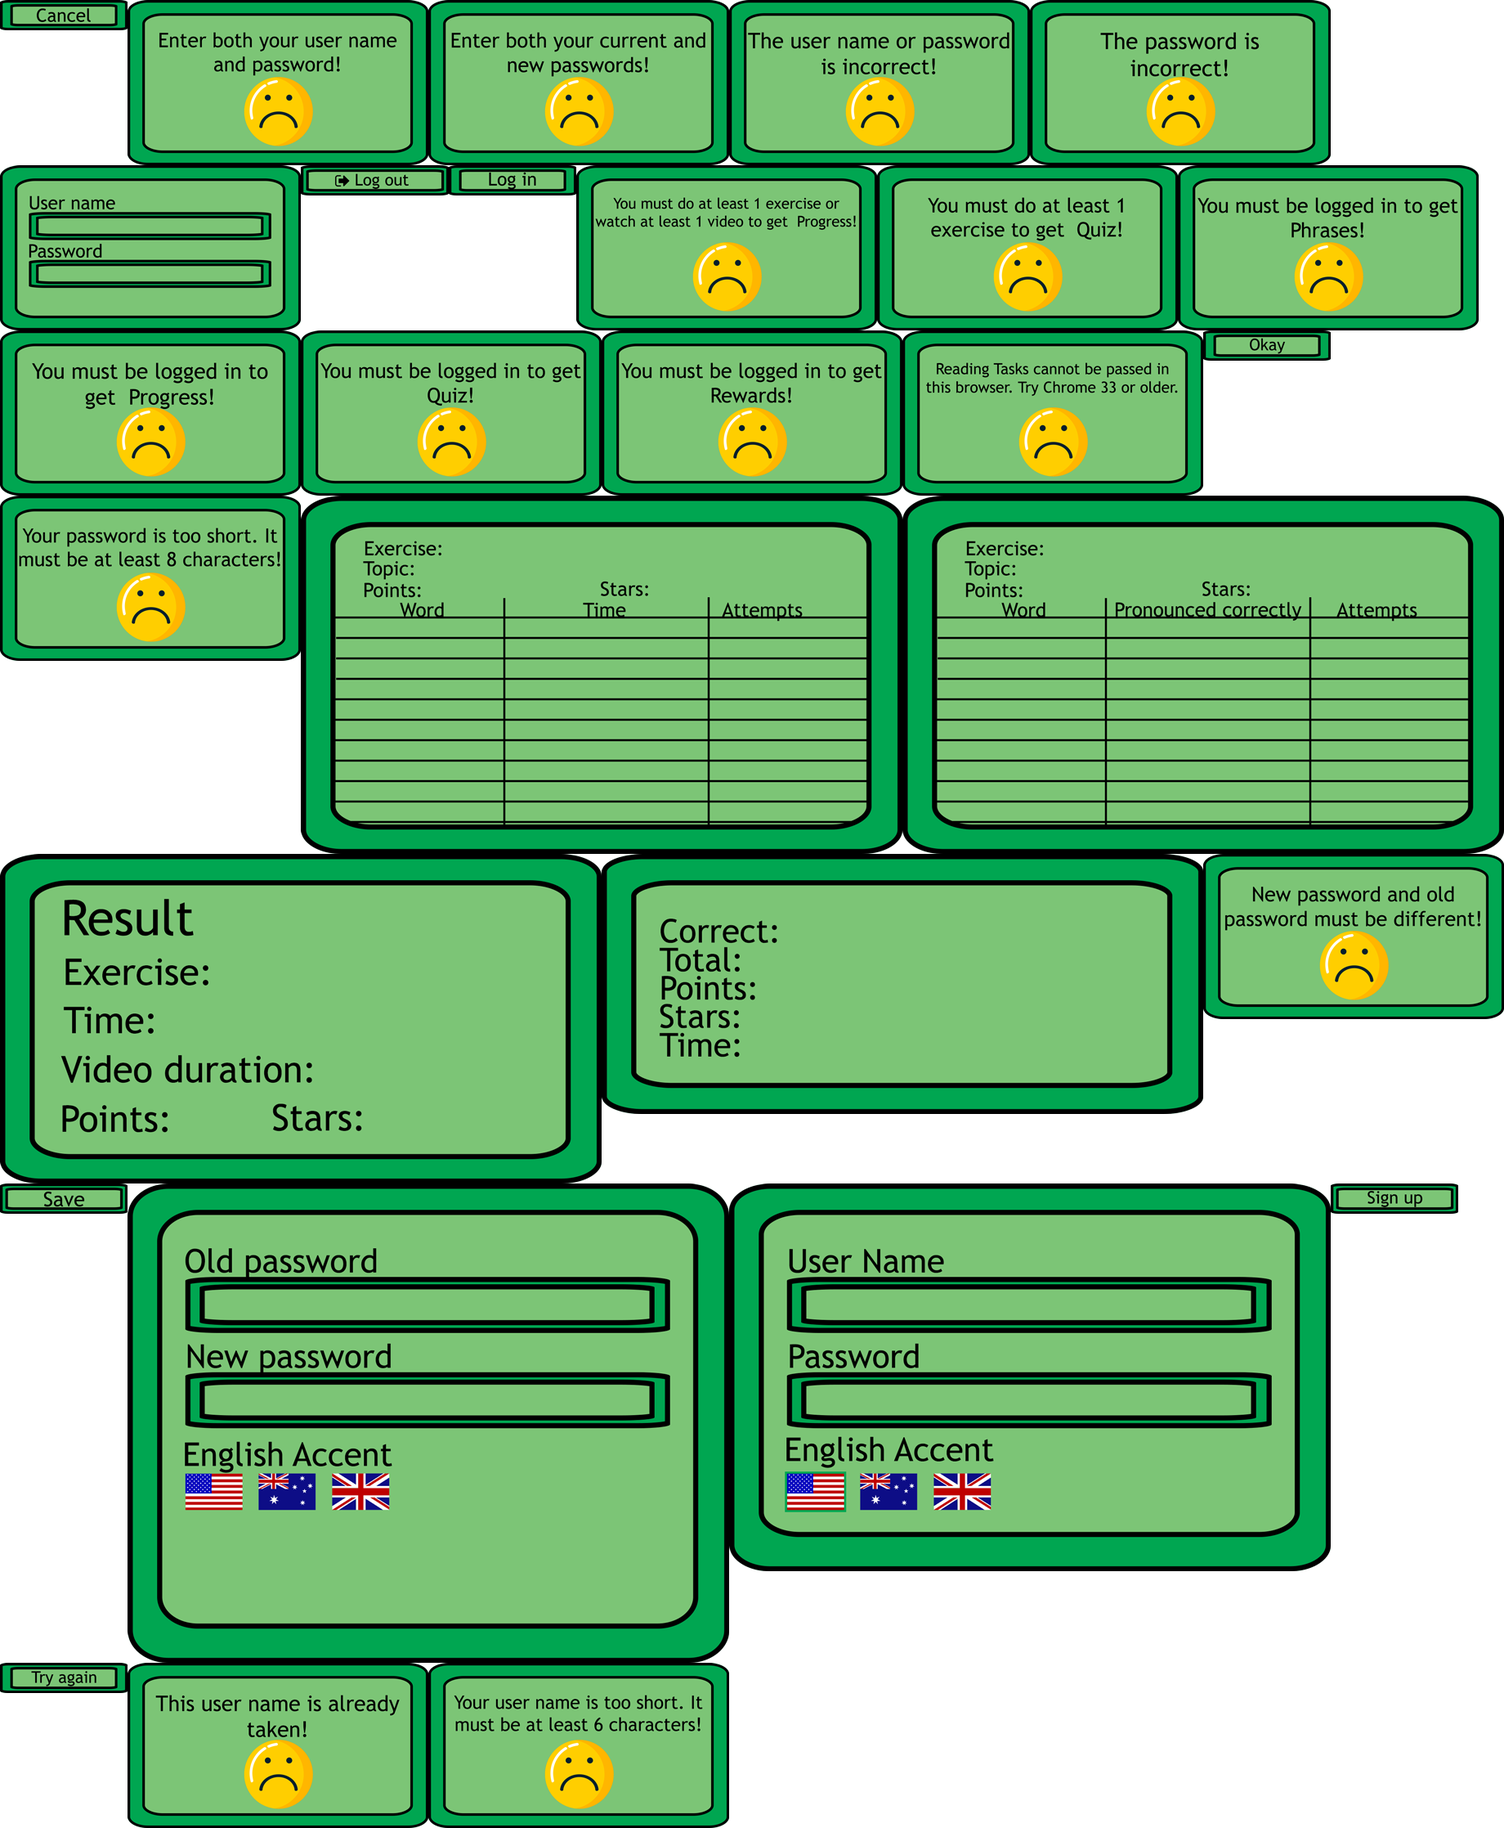
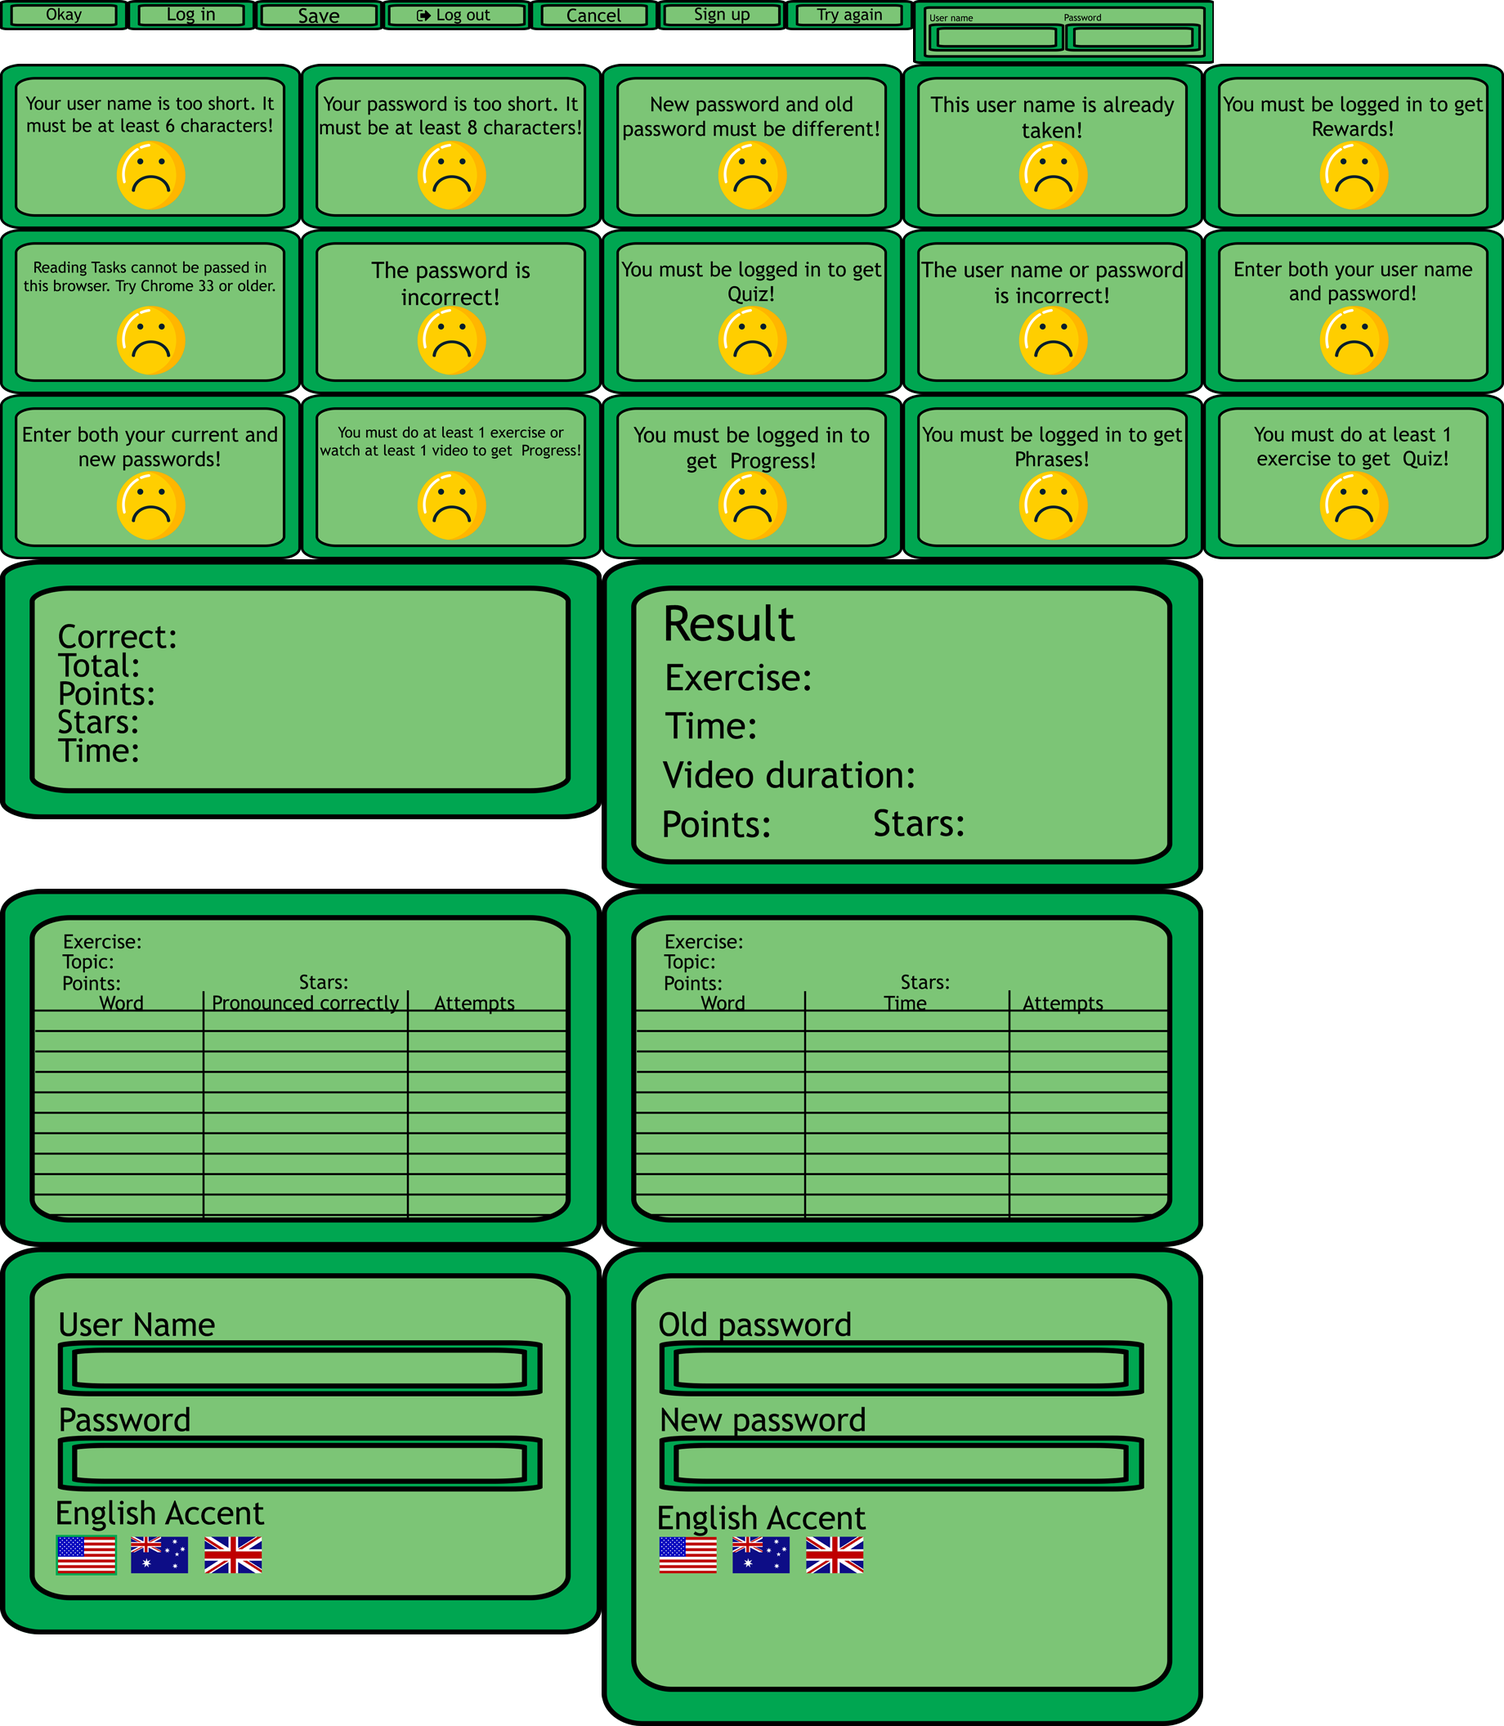
trying to fix input

diff --git a/client/bundle.js b/client/bundle.js
@@ -3273,42 +3273,72 @@ module.exports = {
 					drawHeader();
 					if(document.getElementById("MenuCanvas"))
 						$("#MenuCanvas").remove();
-					X_ = (Screen.width / Math.min(Screen.k_width, Screen.k_height) - (MenuItem.size) / 202 * 368)/2
-					Y_ = MenuItem.starts + (MenuItem.ends - MenuItem.starts - MenuItem.size) / 2;
-					size_ = 2*(Y_ - MenuItem.starts) + MenuItem.size;
-					Display.setForm("log_in_form.png", X_, Y_, (MenuItem.size) / 202 * 368, MenuItem.size);
+					var frame = Properties.Forms["log_in_form.png"];
+					console.log(frame);
+					var Form_frame = {};
+				
+					Form_frame.h = Screen.height / Math.min(Screen.k_width, Screen.k_height) - MenuItem.starts - 2 * 40 - 100;
+					Form_frame.w = Form_frame.h * frame.w / frame.h;
+					
+					if(Form_frame.w > Screen.width / Math.min(Screen.k_width, Screen.k_height)- 2 * 20 - 100) {
+						Form_frame.w = Screen.width / Math.min(Screen.k_width, Screen.k_height) - 2 * 20 - 100;
+						Form_frame.h = Form_frame.w * frame.h / frame.w;
+					}
+					Form_frame.x = (Screen.width / Math.min(Screen.k_width, Screen.k_height) - Form_frame.w) / 2;
+					Form_frame.y = MenuItem.starts + 10;
+					Display.setForm("log_in_form.png", Form_frame.x, Form_frame.y, Form_frame.w, Form_frame.h);
+					
 					drawLogInForm();
-					Display.setButton("login_btn.png", X_ + 47, Y_ + MenuItem.size - MenuItem.size * 37 / 202 / 2 - 40, (MenuItem.size) / 202 * 156, MenuItem.size * 37 / 202);
-					Form.Draw("login_btn.png");
-					Display.setButton("cancel_btn.png", X_ + 49 + (MenuItem.size) / 202 * 156 + 35, Y_ + MenuItem.size - MenuItem.size * 37 / 202 / 2 - 40, (MenuItem.size) / 202 * 156, MenuItem.size * 37 / 202);
-					Form.Draw("cancel_btn.png");
+					
+					//fillRect(0, Display.getForm("log_in_form.png").y + 35 * Display.getForm("log_in_form.png").h / frame.h, 10000, 10);
+					//fillRect(0, Display.getForm("log_in_form.png").y + 55 * Display.getForm("log_in_form.png").h / frame.h, 10000, 10);
+					//fillRect(Display.getForm("log_in_form.png").x + 32 * Display.getForm("log_in_form.png").w / frame.w, 0 , 10, 10000);
+					//fillRect(Display.getForm("log_in_form.png").x + 200 * Display.getForm("log_in_form.png").w / frame.w, 0 , 10, 10000);
+					//fillRect(Display.getForm("log_in_form.png").x + 170 * Display.getForm("log_in_form.png").w / frame.w, 0 , 10, 10000);
+					//fillRect(Display.getForm("log_in_form.png").x + Display.getForm("log_in_form.png").w - 30 * Display.getForm("log_in_form.png").w / frame.w, 0 , 10, 10000);
+					
 					ctx.fillStyle='#000000';
 					var div = document.createElement('inputDiv');
 					div.innerHTML = "<input id = 'UserName' name = 'UserName'/><input type = 'password' id = 'Password' name = 'UserName' />";
 					document.getElementById("mainDiv").appendChild(div);
-					document.getElementById("UserName").style.top = (Y_ + 57 / 202 * MenuItem.size) * Math.min(Screen.k_width, Screen.k_height);
-					document.getElementById("UserName").style.left = (X_ + 35 / 368 * (MenuItem.size) / 202 * 368) * Math.min(Screen.k_width, Screen.k_height);
-					document.getElementById("UserName").style.paddingLeft = (20 / 368 * size_) * Math.min(Screen.k_width, Screen.k_height);
-					document.getElementById("UserName").style.paddingRight = (20 / 368 * size_) * Math.min(Screen.k_width, Screen.k_height);
-					document.getElementById("UserName").style.width = 297 / 368 * (MenuItem.size) / 202 * 368*Math.min(Screen.k_width, Screen.k_height);
-					document.getElementById("UserName").style.height = 35 / 202 * MenuItem.size * Math.min(Screen.k_width, Screen.k_height);
+					document.getElementById("UserName").style.top = (Display.getForm("log_in_form.png").y + 35 * Display.getForm("log_in_form.png").h / frame.h) * Math.min(Screen.k_width, Screen.k_height);
+					document.getElementById("UserName").style.left = (Display.getForm("log_in_form.png").x + 32 * Display.getForm("log_in_form.png").w / frame.w) * Math.min(Screen.k_width, Screen.k_height);
+					document.getElementById("UserName").style.paddingLeft = (10 * Display.getForm("log_in_form.png").w / frame.w) * Math.min(Screen.k_width, Screen.k_height);
+					document.getElementById("UserName").style.paddingRight = (10 * Display.getForm("log_in_form.png").w / frame.w) * Math.min(Screen.k_width, Screen.k_height);
+					document.getElementById("UserName").style.width = (145 * Display.getForm("log_in_form.png").w / frame.w)*Math.min(Screen.k_width, Screen.k_height);
+					document.getElementById("UserName").style.height = (20 * Display.getForm("log_in_form.png").h / frame.h) * Math.min(Screen.k_width, Screen.k_height);
 					document.getElementById("UserName").style.border = "2px solid";
 					document.getElementById('UserName').style.position = "absolute";
 					document.getElementById('UserName').autofocus = false;
 					document.getElementById('UserName').style.backgroundColor = "transparent";
-					Display.setButton("UserName", (X_ + 35 / 368 * (MenuItem.size) / 202 * 368), (Y_ + 57 / 202 * MenuItem.size), 297/ 368 * size_, 35 / 202 * size_ );
-					document.getElementById("Password").style.top = (Y_ + 115 / 202 * MenuItem.size) * Math.min(Screen.k_width, Screen.k_height);
-					document.getElementById("Password").style.left = (X_ + 35 / 368 * (MenuItem.size) / 202 * 368) * Math.min(Screen.k_width, Screen.k_height);
-					document.getElementById("Password").style.paddingLeft = (20 / 368 * size_) * Math.min(Screen.k_width, Screen.k_height);
-					document.getElementById("Password").style.paddingRight = (20 / 368 * size_) * Math.min(Screen.k_width, Screen.k_height);
-					document.getElementById("Password").style.width = 297 / 368 * (MenuItem.size) / 202 * 368 *Math.min(Screen.k_width, Screen.k_height);
-					document.getElementById("Password").style.height = 35 / 202 * MenuItem.size * Math.min(Screen.k_width, Screen.k_height);
+					Display.setButton("UserName", Display.getForm("log_in_form.png").x + 32 * Display.getForm("log_in_form.png").w / frame.w, (Display.getForm("log_in_form.png").y + 35 * Display.getForm("log_in_form.png").h / frame.h), 145 * Display.getForm("log_in_form.png").w / frame.w, 20 * Display.getForm("log_in_form.png").h / frame.h);
+					document.getElementById("Password").style.top = (Display.getForm("log_in_form.png").y + 35 * Display.getForm("log_in_form.png").h / frame.h) * Math.min(Screen.k_width, Screen.k_height);
+					document.getElementById("Password").style.left = (Display.getForm("log_in_form.png").x + 198 * Display.getForm("log_in_form.png").w / frame.w) * Math.min(Screen.k_width, Screen.k_height);
+					document.getElementById("Password").style.paddingLeft = (10 * Display.getForm("log_in_form.png").w / frame.w) * Math.min(Screen.k_width, Screen.k_height);
+					document.getElementById("Password").style.paddingRight = (10 * Display.getForm("log_in_form.png").w / frame.w) * Math.min(Screen.k_width, Screen.k_height);
+					document.getElementById("Password").style.width = 145 * Display.getForm("log_in_form.png").w / frame.w * Math.min(Screen.k_width, Screen.k_height);
+					document.getElementById("Password").style.height = 20 * Display.getForm("log_in_form.png").h / frame.h * Math.min(Screen.k_width, Screen.k_height);
 					document.getElementById("Password").style.border = "2px solid";
 					document.getElementById('Password').style.position = "absolute";
 					document.getElementById('Password').style.backgroundColor = "transparent";
 					document.getElementById('Password').autofocus = false;
-					Display.setButton("Password", (X_ + 35 / 368 * (MenuItem.size) / 202 * 368), (Y_ + 115 / 202 * MenuItem.size), 297/ 368 * size_, 35 / 202 * size_ );
-					
+					Display.setButton("Password", Display.getForm("log_in_form.png").x + 198 * Display.getForm("log_in_form.png").w / frame.w, Display.getForm("log_in_form.png").y + 35 * Display.getForm("log_in_form.png").h / frame.h, 145 * Display.getForm("log_in_form.png").w / frame.w, 20 * Display.getForm("log_in_form.png").h / frame.h);
+
+					frame = Properties.Forms["login_btn.png"];
+					var btn = {};
+					btn.w = (Display.getForm("log_in_form.png").x + Display.getForm("log_in_form.png").w - 30 - 10) / 4;
+					btn.x = (Display.getForm("log_in_form.png").x + Display.getForm("log_in_form.png").w / 2) / 2 - btn.w / 2;
+					btn.h = btn.w * Properties.Forms["log_in_form.png"].h / Properties.Forms["log_in_form.png"].w;
+					btn.y = Display.getForm("log_in_form.png").y + Display.getForm("log_in_form.png").h - 30 - btn.h / 2;
+					Display.setButton("login_btn.png", btn.x, btn.y, btn.w, btn.h);
+					Form.Draw("login_btn.png");
+					btn.x = Display.getForm("log_in_form.png").x + Display.getForm("log_in_form.png").w / 2 + 2 * 10;
+					btn.w = (Display.getForm("log_in_form.png").w - 2 * 30 - 10) / 4;
+					btn.h = btn.w * Properties.Forms["cancel_btn.png"].h / Properties.Forms["cancel_btn.png"].w;
+					btn.y = Display.getForm("log_in_form.png").y + Display.getForm("log_in_form.png").h - 30 - btn.h / 2;
+					Display.setButton("cancel_btn.png", btn.x, btn.y, btn.w, btn.h);
+					Form.Draw("cancel_btn.png");
+						
 					if(Profile.UserName)
 						document.getElementById('UserName').value = Profile.UserName;
 					if(Profile.Password)

diff --git a/client/index.js b/client/index.js
@@ -3031,42 +3031,72 @@
 					drawHeader();
 					if(document.getElementById("MenuCanvas"))
 						$("#MenuCanvas").remove();
-					X_ = (Screen.width / Math.min(Screen.k_width, Screen.k_height) - (MenuItem.size) / 202 * 368)/2
-					Y_ = MenuItem.starts + (MenuItem.ends - MenuItem.starts - MenuItem.size) / 2;
-					size_ = 2*(Y_ - MenuItem.starts) + MenuItem.size;
-					Display.setForm("log_in_form.png", X_, Y_, (MenuItem.size) / 202 * 368, MenuItem.size);
+					var frame = Properties.Forms["log_in_form.png"];
+					console.log(frame);
+					var Form_frame = {};
+				
+					Form_frame.h = Screen.height / Math.min(Screen.k_width, Screen.k_height) - MenuItem.starts - 2 * 40 - 100;
+					Form_frame.w = Form_frame.h * frame.w / frame.h;
+					
+					if(Form_frame.w > Screen.width / Math.min(Screen.k_width, Screen.k_height)- 2 * 20 - 100) {
+						Form_frame.w = Screen.width / Math.min(Screen.k_width, Screen.k_height) - 2 * 20 - 100;
+						Form_frame.h = Form_frame.w * frame.h / frame.w;
+					}
+					Form_frame.x = (Screen.width / Math.min(Screen.k_width, Screen.k_height) - Form_frame.w) / 2;
+					Form_frame.y = MenuItem.starts + 10;
+					Display.setForm("log_in_form.png", Form_frame.x, Form_frame.y, Form_frame.w, Form_frame.h);
+					
 					drawLogInForm();
-					Display.setButton("login_btn.png", X_ + 47, Y_ + MenuItem.size - MenuItem.size * 37 / 202 / 2 - 40, (MenuItem.size) / 202 * 156, MenuItem.size * 37 / 202);
-					Form.Draw("login_btn.png");
-					Display.setButton("cancel_btn.png", X_ + 49 + (MenuItem.size) / 202 * 156 + 35, Y_ + MenuItem.size - MenuItem.size * 37 / 202 / 2 - 40, (MenuItem.size) / 202 * 156, MenuItem.size * 37 / 202);
-					Form.Draw("cancel_btn.png");
+					
+					//fillRect(0, Display.getForm("log_in_form.png").y + 35 * Display.getForm("log_in_form.png").h / frame.h, 10000, 10);
+					//fillRect(0, Display.getForm("log_in_form.png").y + 55 * Display.getForm("log_in_form.png").h / frame.h, 10000, 10);
+					//fillRect(Display.getForm("log_in_form.png").x + 32 * Display.getForm("log_in_form.png").w / frame.w, 0 , 10, 10000);
+					//fillRect(Display.getForm("log_in_form.png").x + 200 * Display.getForm("log_in_form.png").w / frame.w, 0 , 10, 10000);
+					//fillRect(Display.getForm("log_in_form.png").x + 170 * Display.getForm("log_in_form.png").w / frame.w, 0 , 10, 10000);
+					//fillRect(Display.getForm("log_in_form.png").x + Display.getForm("log_in_form.png").w - 30 * Display.getForm("log_in_form.png").w / frame.w, 0 , 10, 10000);
+					
 					ctx.fillStyle='#000000';
 					var div = document.createElement('inputDiv');
 					div.innerHTML = "<input id = 'UserName' name = 'UserName'/><input type = 'password' id = 'Password' name = 'UserName' />";
 					document.getElementById("mainDiv").appendChild(div);
-					document.getElementById("UserName").style.top = (Y_ + 57 / 202 * MenuItem.size) * Math.min(Screen.k_width, Screen.k_height);
-					document.getElementById("UserName").style.left = (X_ + 35 / 368 * (MenuItem.size) / 202 * 368) * Math.min(Screen.k_width, Screen.k_height);
-					document.getElementById("UserName").style.paddingLeft = (20 / 368 * size_) * Math.min(Screen.k_width, Screen.k_height);
-					document.getElementById("UserName").style.paddingRight = (20 / 368 * size_) * Math.min(Screen.k_width, Screen.k_height);
-					document.getElementById("UserName").style.width = 297 / 368 * (MenuItem.size) / 202 * 368*Math.min(Screen.k_width, Screen.k_height);
-					document.getElementById("UserName").style.height = 35 / 202 * MenuItem.size * Math.min(Screen.k_width, Screen.k_height);
+					document.getElementById("UserName").style.top = (Display.getForm("log_in_form.png").y + 35 * Display.getForm("log_in_form.png").h / frame.h) * Math.min(Screen.k_width, Screen.k_height);
+					document.getElementById("UserName").style.left = (Display.getForm("log_in_form.png").x + 32 * Display.getForm("log_in_form.png").w / frame.w) * Math.min(Screen.k_width, Screen.k_height);
+					document.getElementById("UserName").style.paddingLeft = (10 * Display.getForm("log_in_form.png").w / frame.w) * Math.min(Screen.k_width, Screen.k_height);
+					document.getElementById("UserName").style.paddingRight = (10 * Display.getForm("log_in_form.png").w / frame.w) * Math.min(Screen.k_width, Screen.k_height);
+					document.getElementById("UserName").style.width = (145 * Display.getForm("log_in_form.png").w / frame.w)*Math.min(Screen.k_width, Screen.k_height);
+					document.getElementById("UserName").style.height = (20 * Display.getForm("log_in_form.png").h / frame.h) * Math.min(Screen.k_width, Screen.k_height);
 					document.getElementById("UserName").style.border = "2px solid";
 					document.getElementById('UserName').style.position = "absolute";
 					document.getElementById('UserName').autofocus = false;
 					document.getElementById('UserName').style.backgroundColor = "transparent";
-					Display.setButton("UserName", (X_ + 35 / 368 * (MenuItem.size) / 202 * 368), (Y_ + 57 / 202 * MenuItem.size), 297/ 368 * size_, 35 / 202 * size_ );
-					document.getElementById("Password").style.top = (Y_ + 115 / 202 * MenuItem.size) * Math.min(Screen.k_width, Screen.k_height);
-					document.getElementById("Password").style.left = (X_ + 35 / 368 * (MenuItem.size) / 202 * 368) * Math.min(Screen.k_width, Screen.k_height);
-					document.getElementById("Password").style.paddingLeft = (20 / 368 * size_) * Math.min(Screen.k_width, Screen.k_height);
-					document.getElementById("Password").style.paddingRight = (20 / 368 * size_) * Math.min(Screen.k_width, Screen.k_height);
-					document.getElementById("Password").style.width = 297 / 368 * (MenuItem.size) / 202 * 368 *Math.min(Screen.k_width, Screen.k_height);
-					document.getElementById("Password").style.height = 35 / 202 * MenuItem.size * Math.min(Screen.k_width, Screen.k_height);
+					Display.setButton("UserName", Display.getForm("log_in_form.png").x + 32 * Display.getForm("log_in_form.png").w / frame.w, (Display.getForm("log_in_form.png").y + 35 * Display.getForm("log_in_form.png").h / frame.h), 145 * Display.getForm("log_in_form.png").w / frame.w, 20 * Display.getForm("log_in_form.png").h / frame.h);
+					document.getElementById("Password").style.top = (Display.getForm("log_in_form.png").y + 35 * Display.getForm("log_in_form.png").h / frame.h) * Math.min(Screen.k_width, Screen.k_height);
+					document.getElementById("Password").style.left = (Display.getForm("log_in_form.png").x + 198 * Display.getForm("log_in_form.png").w / frame.w) * Math.min(Screen.k_width, Screen.k_height);
+					document.getElementById("Password").style.paddingLeft = (10 * Display.getForm("log_in_form.png").w / frame.w) * Math.min(Screen.k_width, Screen.k_height);
+					document.getElementById("Password").style.paddingRight = (10 * Display.getForm("log_in_form.png").w / frame.w) * Math.min(Screen.k_width, Screen.k_height);
+					document.getElementById("Password").style.width = 145 * Display.getForm("log_in_form.png").w / frame.w * Math.min(Screen.k_width, Screen.k_height);
+					document.getElementById("Password").style.height = 20 * Display.getForm("log_in_form.png").h / frame.h * Math.min(Screen.k_width, Screen.k_height);
 					document.getElementById("Password").style.border = "2px solid";
 					document.getElementById('Password').style.position = "absolute";
 					document.getElementById('Password').style.backgroundColor = "transparent";
 					document.getElementById('Password').autofocus = false;
-					Display.setButton("Password", (X_ + 35 / 368 * (MenuItem.size) / 202 * 368), (Y_ + 115 / 202 * MenuItem.size), 297/ 368 * size_, 35 / 202 * size_ );
-					
+					Display.setButton("Password", Display.getForm("log_in_form.png").x + 198 * Display.getForm("log_in_form.png").w / frame.w, Display.getForm("log_in_form.png").y + 35 * Display.getForm("log_in_form.png").h / frame.h, 145 * Display.getForm("log_in_form.png").w / frame.w, 20 * Display.getForm("log_in_form.png").h / frame.h);
+
+					frame = Properties.Forms["login_btn.png"];
+					var btn = {};
+					btn.w = (Display.getForm("log_in_form.png").x + Display.getForm("log_in_form.png").w - 30 - 10) / 4;
+					btn.x = (Display.getForm("log_in_form.png").x + Display.getForm("log_in_form.png").w / 2) / 2 - btn.w / 2;
+					btn.h = btn.w * Properties.Forms["log_in_form.png"].h / Properties.Forms["log_in_form.png"].w;
+					btn.y = Display.getForm("log_in_form.png").y + Display.getForm("log_in_form.png").h - 30 - btn.h / 2;
+					Display.setButton("login_btn.png", btn.x, btn.y, btn.w, btn.h);
+					Form.Draw("login_btn.png");
+					btn.x = Display.getForm("log_in_form.png").x + Display.getForm("log_in_form.png").w / 2 + 2 * 10;
+					btn.w = (Display.getForm("log_in_form.png").w - 2 * 30 - 10) / 4;
+					btn.h = btn.w * Properties.Forms["cancel_btn.png"].h / Properties.Forms["cancel_btn.png"].w;
+					btn.y = Display.getForm("log_in_form.png").y + Display.getForm("log_in_form.png").h - 30 - btn.h / 2;
+					Display.setButton("cancel_btn.png", btn.x, btn.y, btn.w, btn.h);
+					Form.Draw("cancel_btn.png");
+						
 					if(Profile.UserName)
 						document.getElementById('UserName').value = Profile.UserName;
 					if(Profile.Password)
